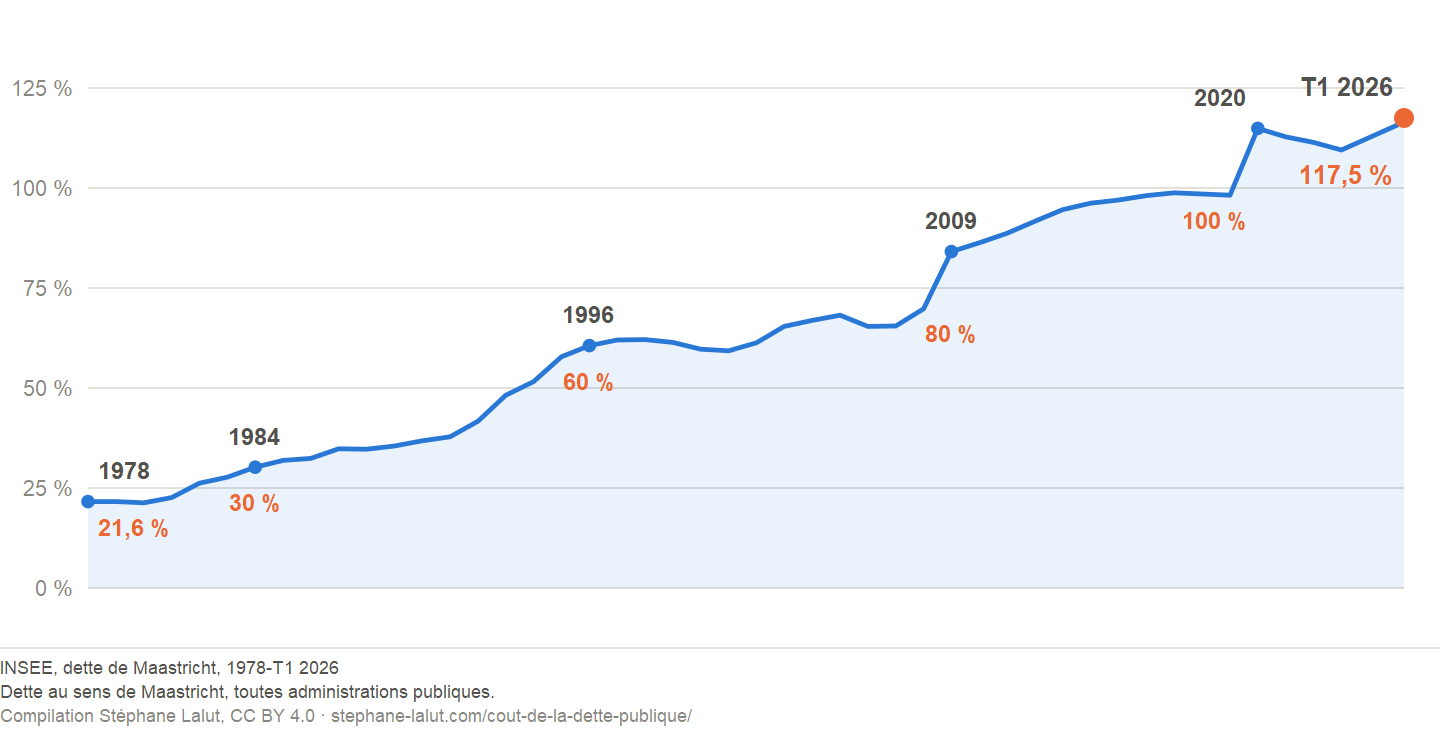
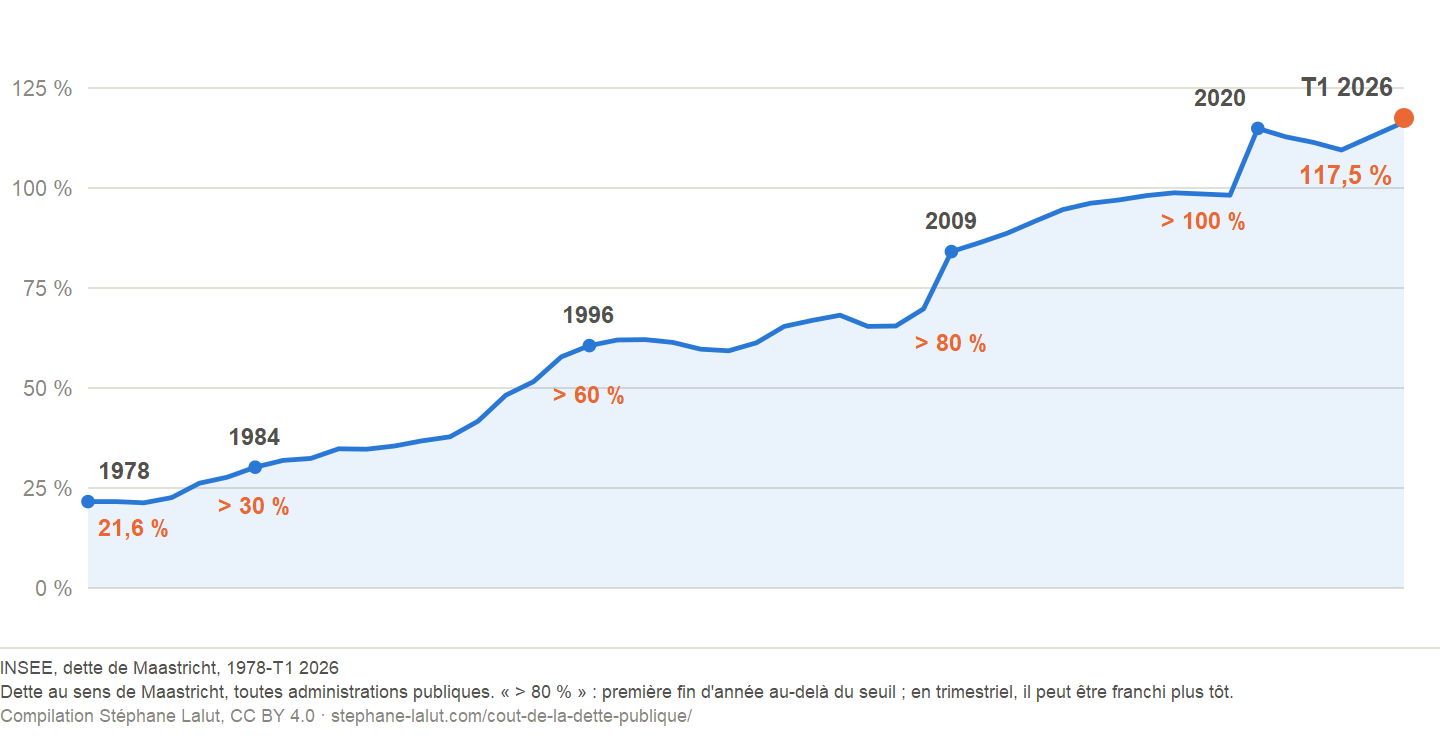
fix(dette): seuils lisibles, taux à 10 ans dans le jeu public, feuille d'impression
Suite de la relecture externe du 28/09 (arbitrage PRO-20260928-COUT-COMMENTAIRES) :
- Figure « dette depuis 1978 » : seuils marqués « > 30 % », « > 80 % »… et précaution du
  cartouche (première fin d'année au-delà du seuil ; plus tôt possible en trimestriel),
  FR/EN. Les étiquettes se lisaient comme la valeur du point (2009 vaut 84,1 %).
- JSON public : bloc taux_long_terme_annuels (Eurostat irt_lt_mcby_a, 1970-2025) ; la
  figure taux de marché / coût du stock devient reproductible. Série accessoire : reprise
  du bloc publié si le fetch échoue. Relevé daté du 28/09, contenu modifié.
- _print.scss : ni navigation, ni fond décoratif, ni compteur, ni bouton de copie à
  l'impression ; pas de coupure dans les figures et les cartes. Vérifié par impression
  réelle (Edge sans interface, build local) : 15 pages, aucune page presque vide.

Build sans avertissement ; check-all --ci à 0 ; PNG 8/8.

diff --git a/assets/scss/_print.scss b/assets/scss/_print.scss
@@ -1,0 +1,38 @@
+// Impression et export PDF (relecture externe du 28/09 : navigation imprimée,
+// fond décoratif sur les graphiques, cartes coupées, dernière page presque vide).
+// Principe : le PDF garde le texte, les figures et leurs sources ; il perd ce qui
+// ne sert qu'à l'écran (navigation, fond, boutons, partage).
+@media print {
+  @page { margin: 16mm 14mm; }
+
+  html, body, .site-wrapper, .site-main { background: #fff !important; }
+  body { color: #000; font-size: 11pt; }
+
+  .anthropie-bg,
+  .site-header__nav,
+  .site-header__burger,
+  .mobile-menu,
+  .transmettre,
+  .reutiliser-ancre,
+  .reutiliser__actions,
+  .dette-chiffres__live,
+  .ressource-retour,
+  .site-footer__inner,
+  .how-to-cite__btn { display: none !important; }
+
+  .site-header { position: static !important; box-shadow: none !important; border: 0 !important; }
+  .site-footer { padding: 0 !important; margin-top: 6mm; border-top: 1px solid #999; }
+  .site-footer__legal { font-size: 9pt; }
+
+  figure, img, svg, table,
+  .reutiliser__carte,
+  .dette-chiffres,
+  .ressources-index__entree { break-inside: avoid; page-break-inside: avoid; }
+  h2, h3 { break-after: avoid; page-break-after: avoid; }
+  p { orphans: 3; widows: 3; }
+
+  .reutiliser__cartes { display: block !important; }
+  .reutiliser__carte { margin-bottom: 6mm; }
+
+  a { color: #000; text-decoration: underline; }
+}

diff --git a/assets/scss/main.scss b/assets/scss/main.scss
@@ -19,6 +19,7 @@
 @import 'ressources-offertes';
 @import 'reutiliser';
 @import 'ressources-index';
+@import 'print';
 @import 'murs-a-propos';
 
 // Dernieres parutions sur l'accueil (bloc Publications) -- liste derivee du corpus, 2026-09-02

diff --git a/scripts/update_dette_insee.py b/scripts/update_dette_insee.py
@@ -410,8 +410,8 @@ LABELS_CARTOUCHE = {
                 "31 décembre précédent, non le taux d'emprunt du jour.",
         "ciseau": "Deux échelles distinctes, une même unité : "
                   "le % du PIB.",
-        "longue": "Dette au sens de Maastricht, toutes administrations "
-                  "publiques.",
+        "longue": "Dette au sens de Maastricht, toutes administrations publiques. « > 80 % » : "
+                  "première fin d'année au-delà du seuil ; en trimestriel, il peut être franchi plus tôt.",
         # Lignes Â« source Â» et textes des cartes de la page : un seul modele
         # par figure, lu par le cartouche de l'image ET par la carte HTML.
         "src_ciseau": "INSEE, dette de Maastricht (%s)  ·  "
@@ -442,7 +442,8 @@ LABELS_CARTOUCHE = {
         "taux": "Effective rate = a year's interest / debt outstanding at the "
                 "end of the previous year, not today's borrowing rate.",
         "ciseau": "Two separate scales, one shared unit: % of GDP.",
-        "longue": "Maastricht debt, general government.",
+        "longue": ("Maastricht debt, general government. \"> 80%\": first year-end above the "
+                   "threshold; in quarterly data it may be crossed earlier."),
         "src_ciseau": "INSEE, Maastricht debt (%s)  ·  "
                       "Eurostat gov_10a_main, interest D41PAY (%s)",
         "src_taux": "Computed on Eurostat (gov_10a_main) and INSEE series, %s-%s",
@@ -919,7 +920,7 @@ def build_svg_longue(annuel: dict, pct_courant: float, label_courant: str,
                 nb(annuel[ans[0]]) + U, "start")]
     for s in (30, 60, 80, 100):
         an = seuils[s]
-        reperes.append((float(an), annuel[int(an)], str(an), "%d%s" % (s, U), "middle"))
+        reperes.append((float(an), annuel[int(an)], str(an), "> %d%s" % (s, U), "middle"))  # « > » : seuil franchi, pas valeur du point (relecture 28/09)
     reperes.append((pts[-1][0], pct_courant, label_courant,
                     nb(pct_courant) + U, "end"))
 
@@ -1404,6 +1405,21 @@ def main() -> int:
     # dernier releve AYANT MODIFIE un chiffre -- ce que la page dit en toutes
     # lettres. Aucun champ nouveau : un second horodatage "verifie_le" exigerait
     # un commit mensuel pour rester vrai, soit le defaut qu'on corrige.
+    # Serie du taux a 10 ans, jointe au jeu public (relecture externe du 28/09 : la
+    # figure « taux de marche » n'etait pas reproductible depuis le JSON). Serie
+    # ACCESSOIRE : si son fetch echoue, on reprend le bloc deja publie plutot que de
+    # le retirer en silence -- et l'empreinte ne bouge pas pour autant.
+    if taux_marche:
+        payload["taux_long_terme_annuels"] = {
+            "source": ("Eurostat, irt_lt_mcby_a -- rendement des titres publics de "
+                       "reference a 10 ans (critere de convergence de Maastricht), France"),
+            "dataset": "irt_lt_mcby_a",
+            "unite": {"pct": "% par an, moyenne annuelle"},
+            "derniere_periode": max(taux_marche),
+            "series": {"pct": {y: taux_marche[y] for y in sorted(taux_marche)}},
+        }
+    elif payload_prev and "taux_long_terme_annuels" in payload_prev:
+        payload["taux_long_terme_annuels"] = payload_prev["taux_long_terme_annuels"]
     inchange = payload_prev is not None and _hors_dates(payload) == _hors_dates(payload_prev)
     if inchange:
         for cle, bloc in _blocs_dates(payload):
